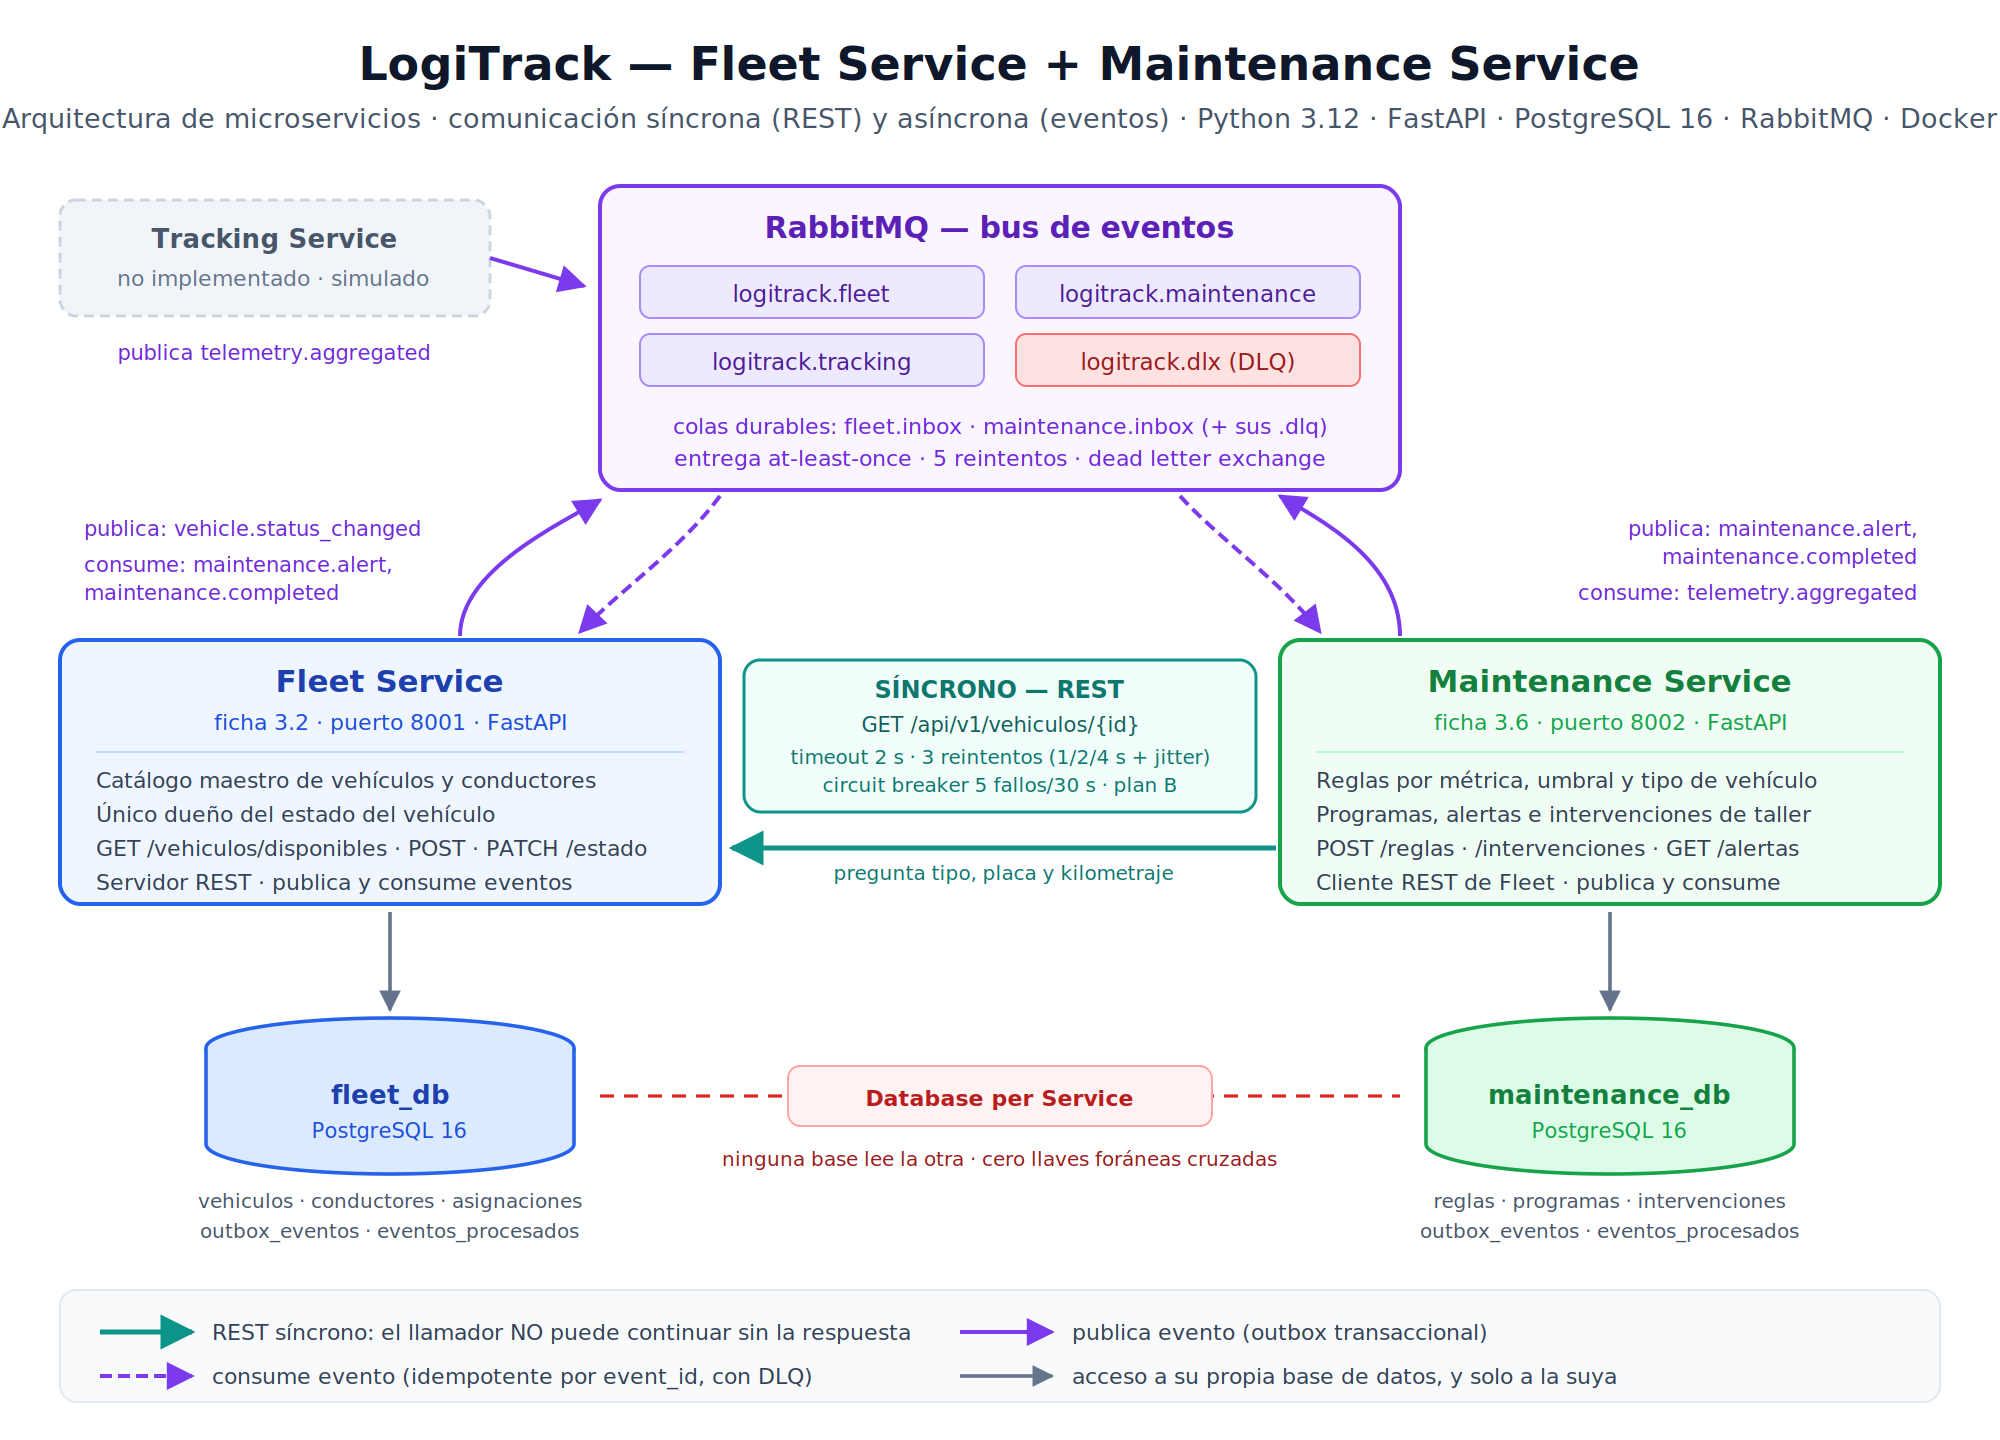
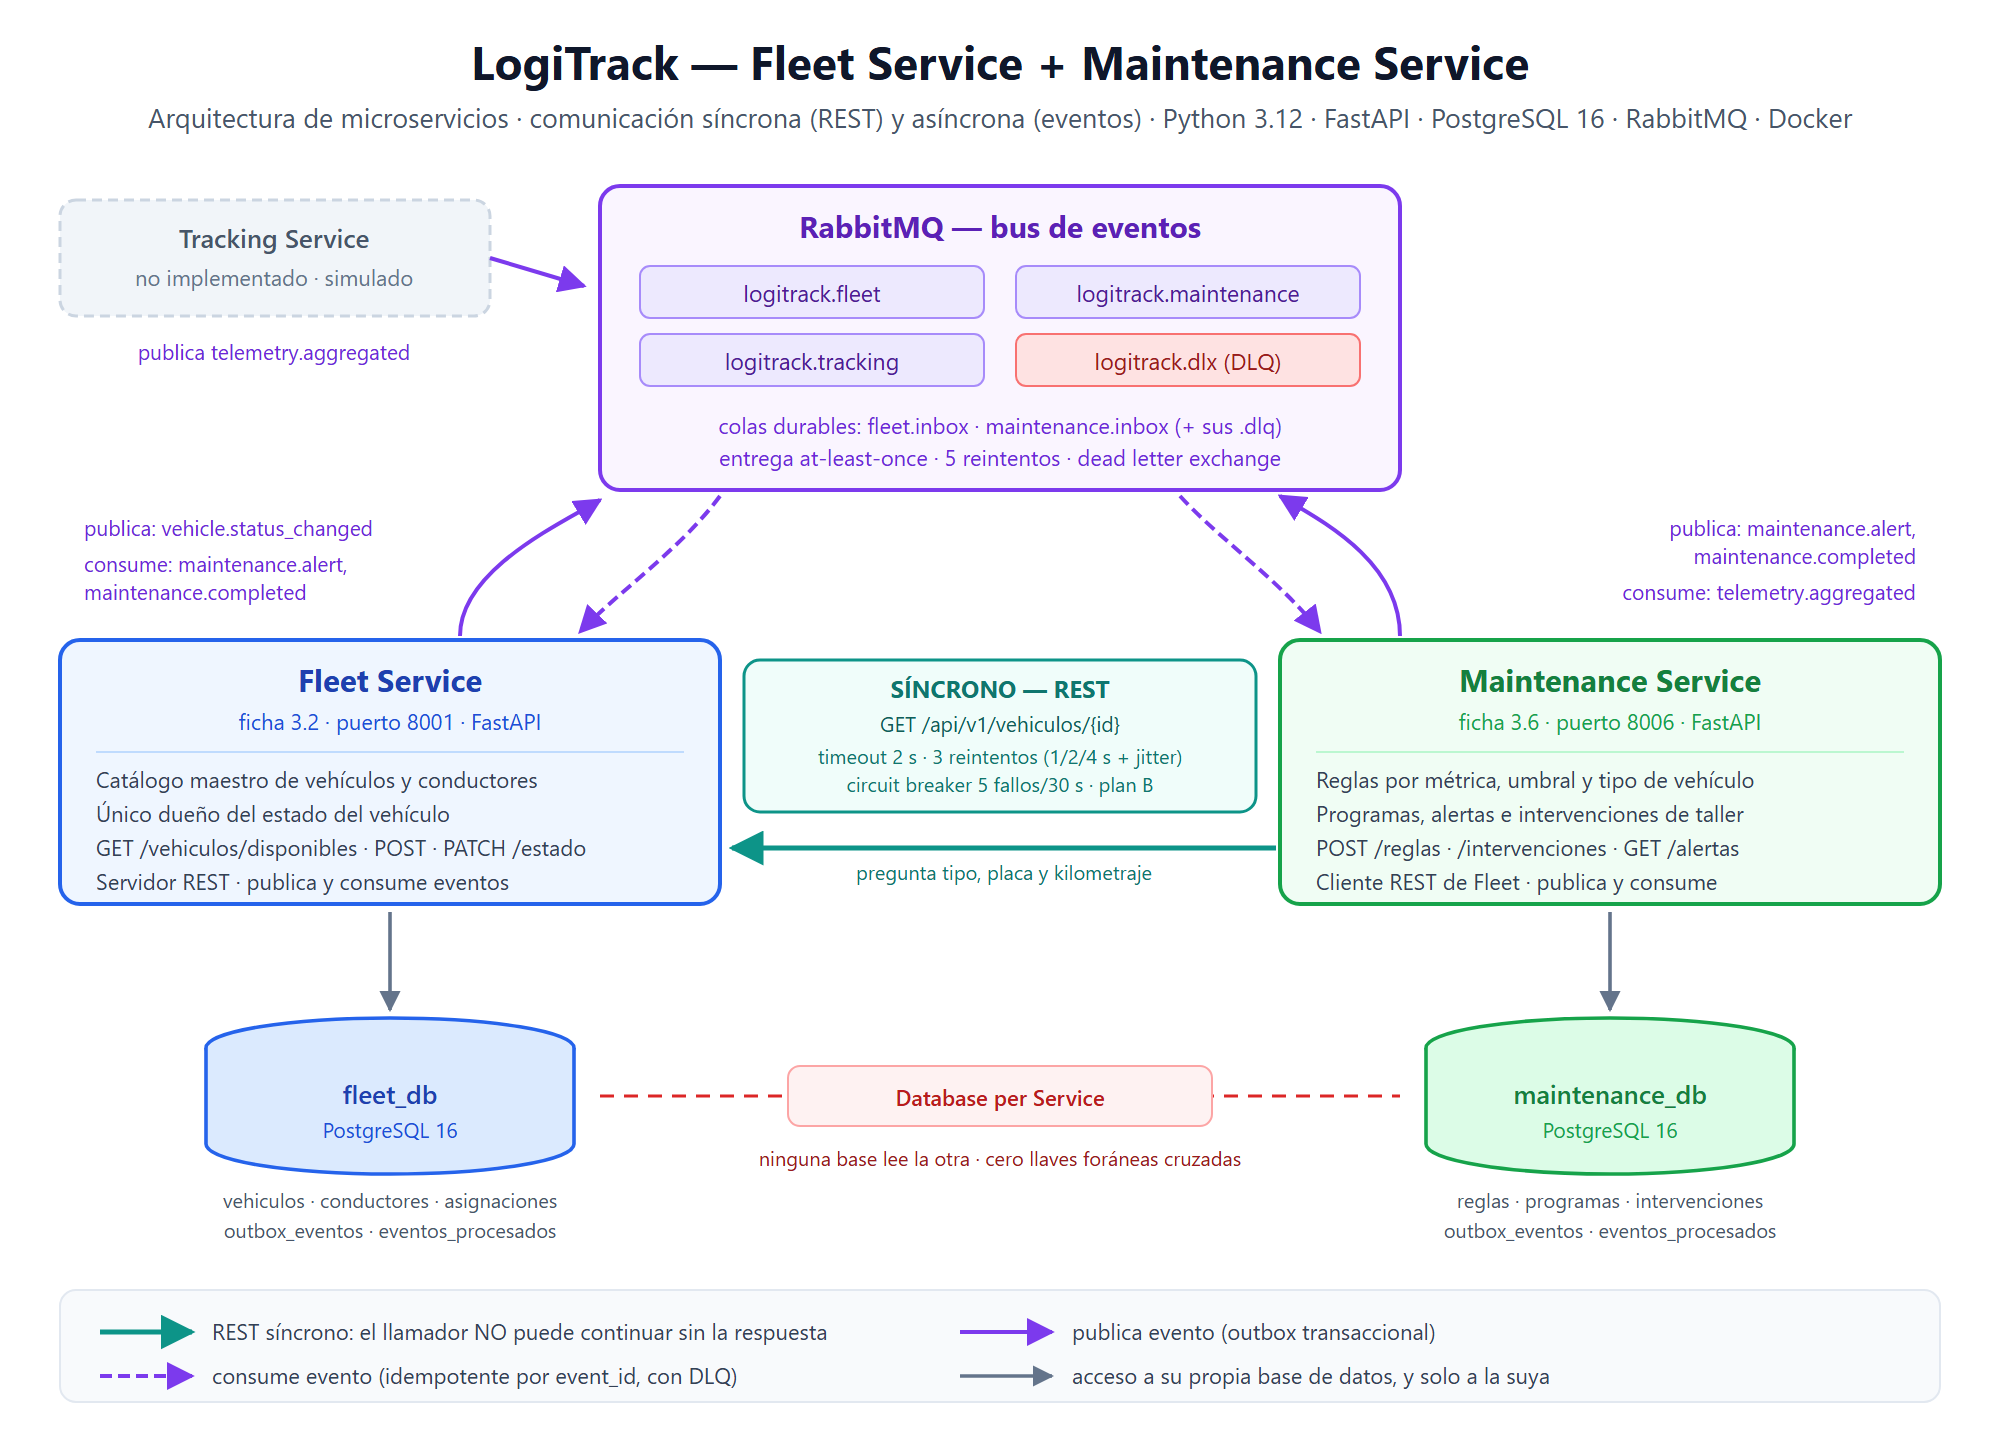
fix(2.2): Maintenance vive en el 8006 en toda la documentacion
Barrido de todas las apariciones de 8002 en el repo, una por una: README (docs, curl de circuit breaker y ficha de endpoints), la coleccion de Postman (nombre de la carpeta y variable maint_url, con la que se rompian las nueve peticiones de Maintenance) y el diagrama de arquitectura (SVG editado y PNG regenerado a 2000x1440 con Edge headless).

Las cinco apariciones que siguen siendo 8002 son legitimas: el puerto real de tracking-service en el compose y comentarios que lo explican. run.ps1 (líneas 32, 62 y 80) también quedó corregido, pero es un archivo local ignorado por .gitignore, así que no entra en el commit.

diff --git a/README.md b/README.md
@@ -41,7 +41,7 @@ python scripts/demo_e2e.py   # prueba end-to-end de los 9 pasos
 ```
 
 - Fleet: http://localhost:8001/docs
-- Maintenance: http://localhost:8002/docs
+- Maintenance: http://localhost:8006/docs
 - RabbitMQ: http://localhost:15672 (logitrack / logitrack)
 
 ## Frontend
@@ -166,8 +166,8 @@ Se usa en dos lugares:
 ```bash
 docker compose stop fleet-service
 # 5 veces, y se ve el circuito pasar de cerrado a abierto:
-curl "http://localhost:8002/api/v1/mantenimiento/vehiculo/<UUID>/ficha"
-curl http://localhost:8002/api/v1/mantenimiento/dependencias
+curl "http://localhost:8006/api/v1/mantenimiento/vehiculo/<UUID>/ficha"
+curl http://localhost:8006/api/v1/mantenimiento/dependencias
 docker compose start fleet-service   # a los 30 s vuelve a cerrarse
 ```
 
@@ -202,7 +202,7 @@ GET    /api/v1/conductores/{id}/disponibilidad
 GET    /health · /ready
 ```
 
-### Maintenance Service (8002)
+### Maintenance Service (8006)
 ```
 POST   /api/v1/mantenimiento/reglas
 GET    /api/v1/mantenimiento/reglas
